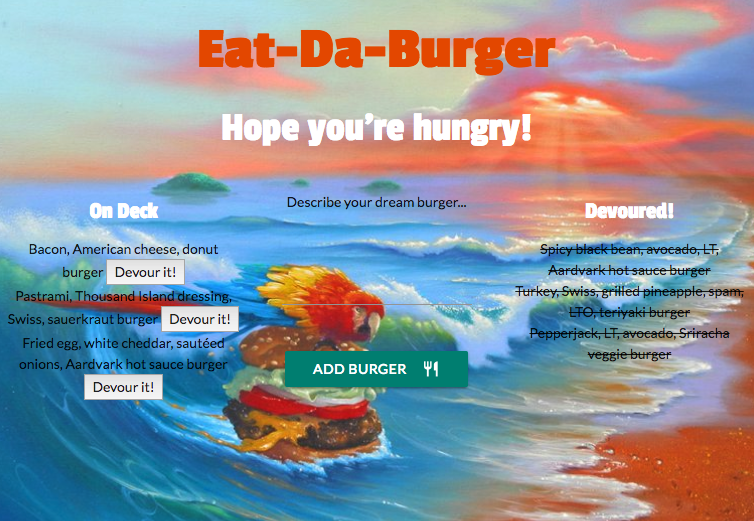
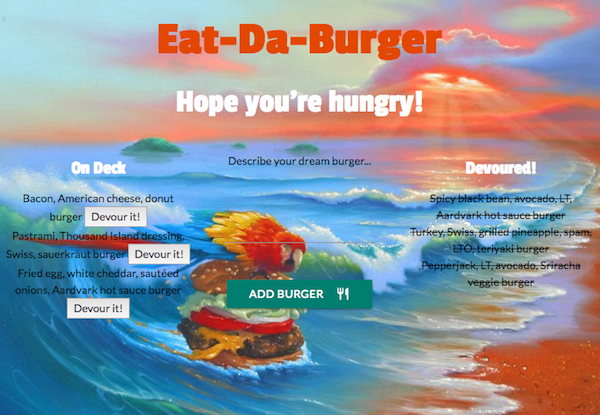
Key features and screenshot adjustment

diff --git a/README.md b/README.md
@@ -6,13 +6,14 @@ A "restaurant app" that lets users input the names of burgers they'd like to eat
 * Uses MVC (Model, View, Controller) structure
 
 ### Deployed Link
-[Heroku]https://limitless-temple-77629.herokuapp.com/
+[Heroku] https://limitless-temple-77629.herokuapp.com/
 
 ### Key Features
 * User text inputs (burgers) are saved to a MySQL database
 * Burgers saved to the database are persistent, "devoured" or not
+* HTML and CSS are rendered using Handlebars views and partials
 
 ### Screenshots
 ![Main](public/assets/img/main_screen.png)
 <br>
-##### Background image by <a href="http://jimwarren.com/">Jim Warren</a>
+Background image by <a href="http://jimwarren.com/">Jim Warren</a>
